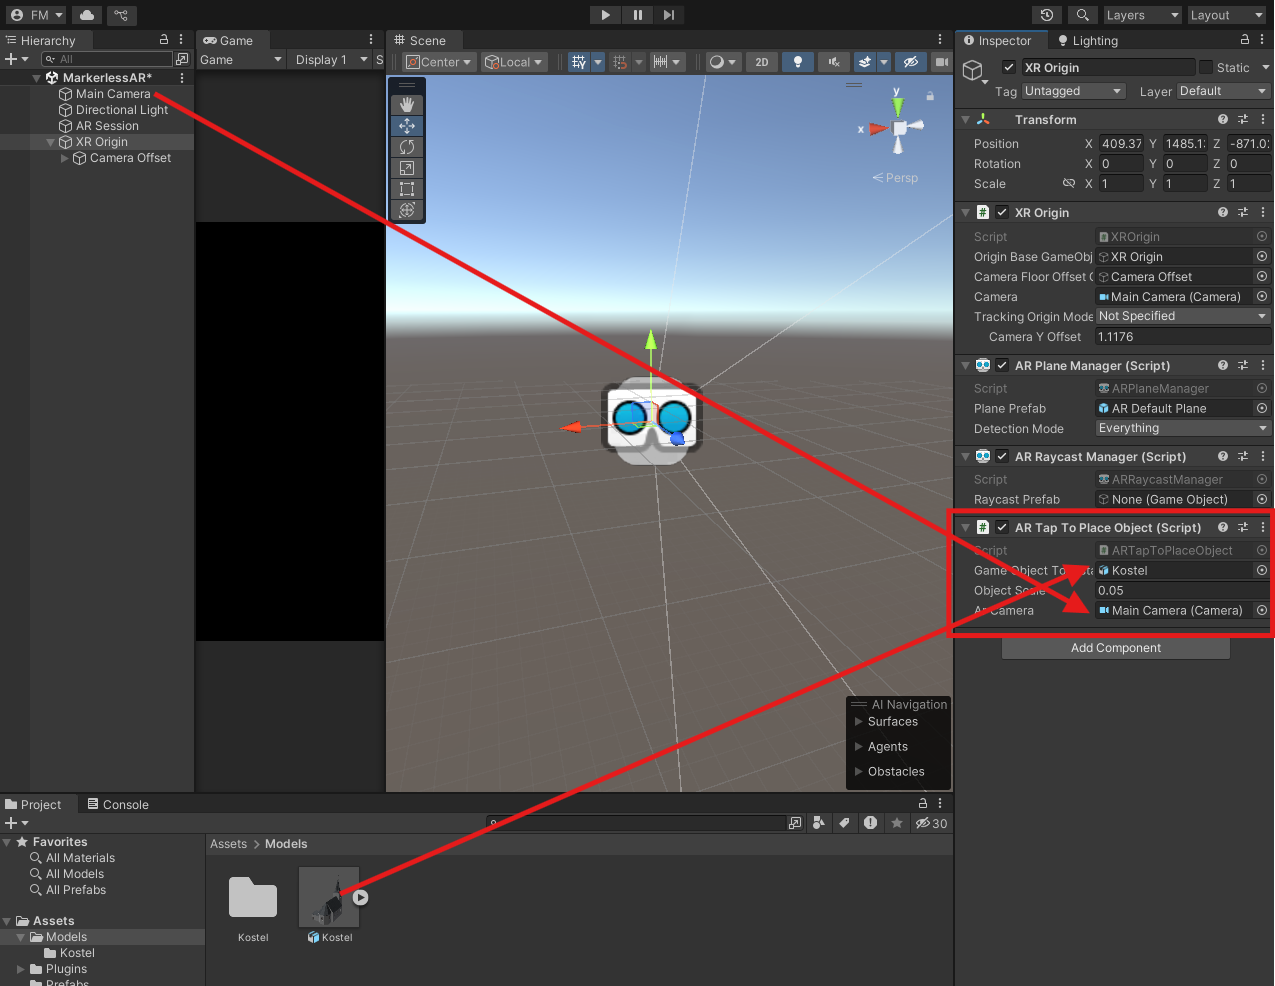
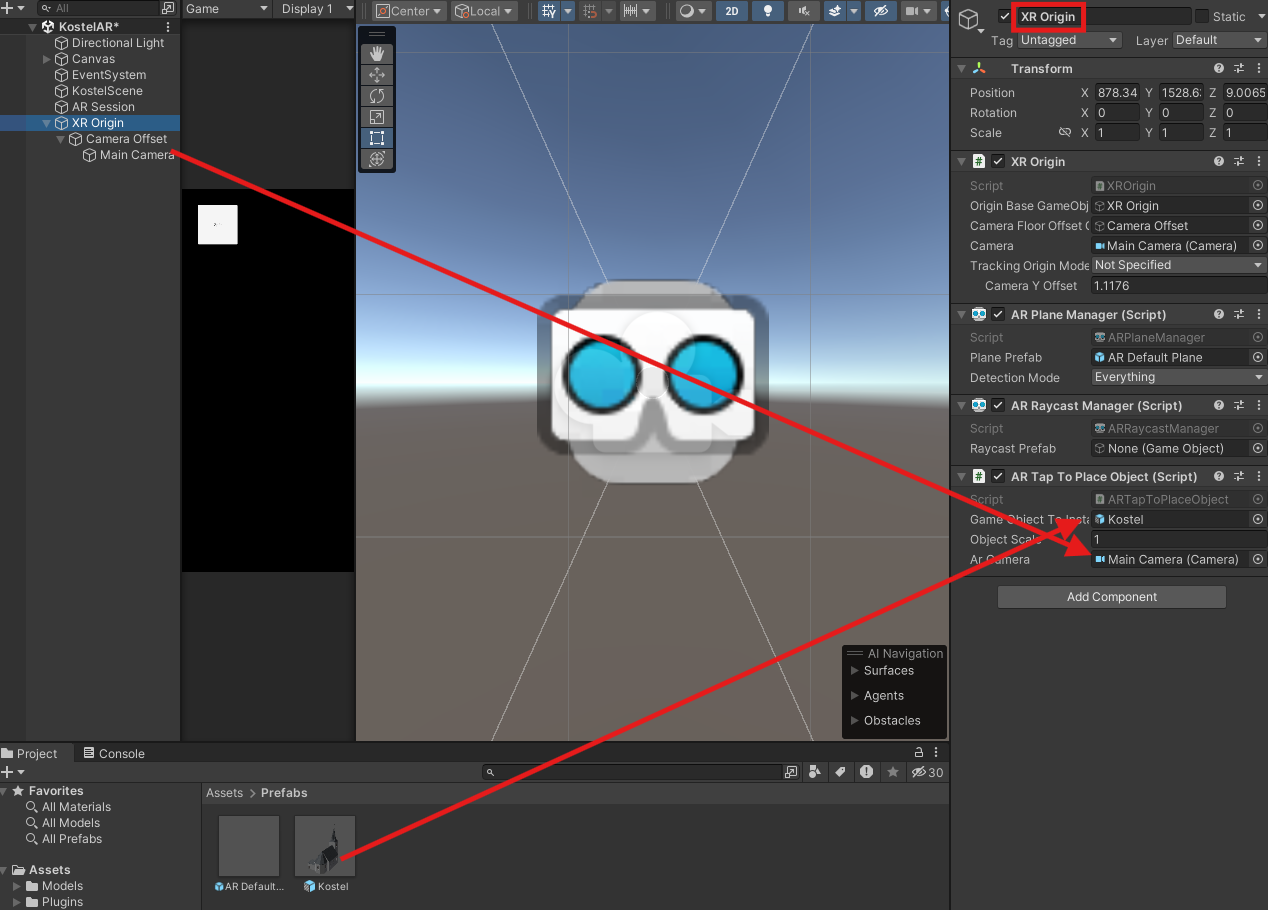
Update README.md

diff --git a/README.md b/README.md
@@ -90,6 +90,8 @@
 
 - přidání skriptu zobrazující model *ARTapToPlaceObject*
 
+- smazat původní gameobject *MainCamera*
+
 ![](/img/img06.png)
 
 - přidání ovládání AR modelu pomocí pluginu [Lean Touch](https://assetstore.unity.com/packages/tools/input-management/lean-touch-30111)
@@ -100,5 +102,14 @@
 
 ![](/img/img07.png)
 
+- vložení komponent *Lean Pinch Scale* a *Lean Twist Rotate Axis* do modelu kostela - v Inspectoru
+
+- nastavení parametrů dle obrázku níže
+
+![](/img/img08.png)
+
+- **výsledek:** 
+
+![](/img/img09.png)
 
 # Location-based AR
